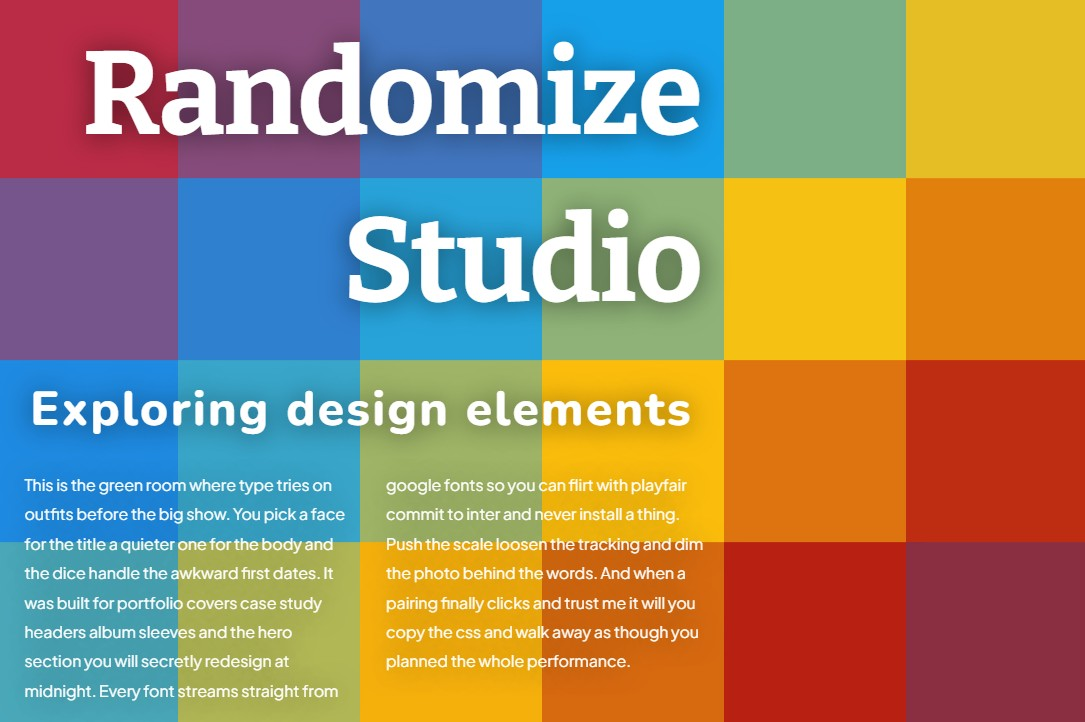
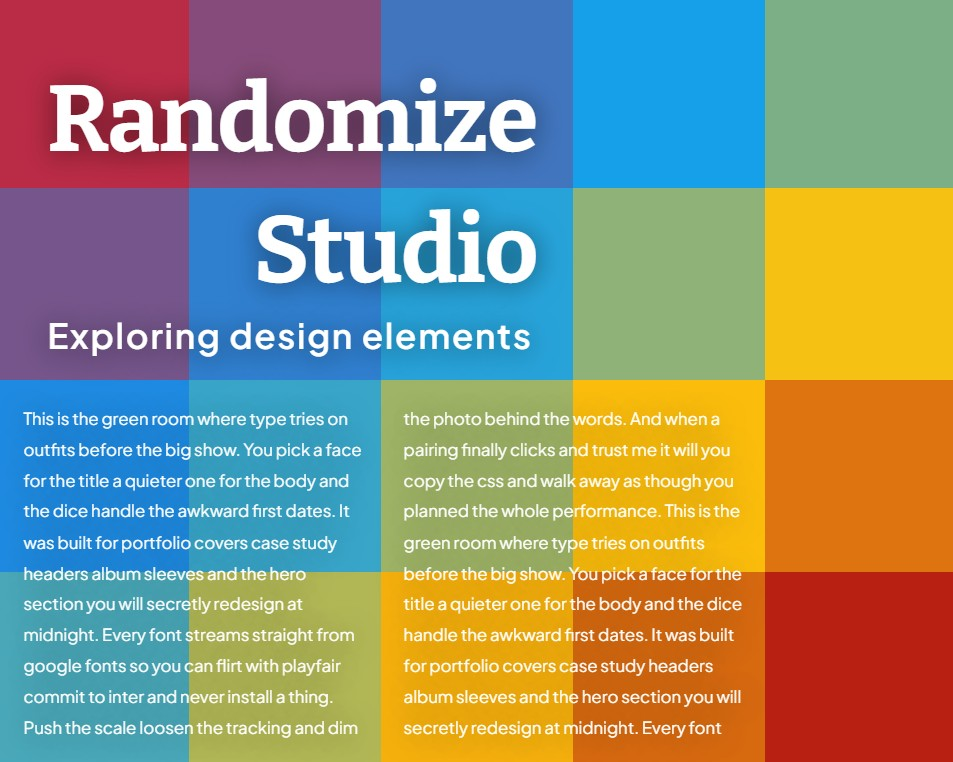
update image thumb for randomize-studio

diff --git a/app/components/band-experiments/band-experiments.scss b/app/components/band-experiments/band-experiments.scss
@@ -200,41 +200,52 @@
   // for -1 to mean anything.
   .tools-entry {
     .frame-grid {
-      // A row of the narrow stack. Times the number of them, plus the gaps
-      // between, this is the height of the whole grid — and so the height of the
-      // feature spanning it.
-      --tool-row: clamp(4.5rem, 7vw, 7rem);
-      // Narrow stack first, wide one second: the feature sits against the
-      // divider, which is the edge everything in this column is aligned to and
-      // the side the frames arrive from.
-      //
-      // The feature's column is its own SPANNED HEIGHT written out, which is
-      // what makes it square — it was 2fr, and square only by accident of how
-      // the numbers happened to fall (245 against 248). The narrow stack takes
-      // whatever is left. --tool-rows is written beside the row template by the
-      // component, because the count is the one thing only it knows; the
-      // fallback is what the four tools currently come to.
-      grid-template-columns: 1fr calc(
-        var(--tool-row) * var(--tool-rows, 3) + (var(--tool-rows, 3) - 1) * var(--frame-gap)
-      );
+      // The feature takes the proportion of its picture - randomize-studio-2.jpg
+      // is 953 x 762 - rather than being cut square. Change the picture, change
+      // these two numbers.
+      --feature-ratio: calc(953 / 762);
+      // A stack frame's width over its row height: 150 across a 106px row, the
+      // shape the three had when the feature was square. Kept, so they are the
+      // same frames, only smaller.
+      --stack-ratio: calc(150 / 106);
 
-      // The feature is asked for at exactly 350px. Its width IS its spanned
-      // height, so the row is worked back from the 350 rather than the other way
-      // round: three rows and two gaps come to exactly that, and the frame stays
-      // square at 350 x 350.
-      //
-      // Held to wide and up, because 350 does not fit below it. The media column
-      // is min(742px, 50vw) less 128px of padding, so at 1024 there are 384px to
-      // share: 350 of them would leave the stack beside it 18px wide. At 1440
-      // there are 592, and the stack keeps 226. Between the two the row goes on
-      // sizing itself off 7vw as before.
-      // Off --tool-rows like everything else here, not off a hard 3: add a fifth
-      // tool and the stack grows a row, and the feature is still 350.
+      // What a row WAS, when the feature was square - the stack's row, whose
+      // count plus the gaps between is the height of the whole grid. Below wide
+      // it sized itself off 7vw; wide and up it was worked back from a 350px
+      // feature (350 does not fit below wide: at 1024 the media column has 384px
+      // to share). Off --tool-rows rather than a hard 3, so a fifth tool grows
+      // the stack by a row and nothing here changes.
+      --tool-base: clamp(4.5rem, 7vw, 7rem);
       @include respond-to("wide") {
-        --tool-row: calc(
+        --tool-base: calc(
           (350px - (var(--tool-rows, 3) - 1) * var(--frame-gap)) / var(--tool-rows, 3)
         );
       }
+
+      // The row now, worked back from the block keeping the width it had: a
+      // wider feature is paid for with height, shared by the feature and the
+      // stack beside it so their tops and bottoms still line up. With N rows, a
+      // gap g, the feature ratio k and the stack ratio a, the old block was
+      // (N + a) x base + N x g wide, and the new one is k x (N x row + (N - 1) x g)
+      // + g + a x row. Setting them equal gives this. At wide that is an 89px row:
+      // a 374 x 299 feature and a 126px stack, 516px across as before.
+      --tool-row: calc(
+        ((var(--tool-rows, 3) + var(--stack-ratio)) * var(--tool-base)
+          + (var(--tool-rows, 3) - 1) * (1 - var(--feature-ratio)) * var(--frame-gap))
+        / (var(--feature-ratio) * var(--tool-rows, 3) + var(--stack-ratio))
+      );
+
+      // Narrow stack first, wide one second: the feature sits against the
+      // divider, which is the edge everything in this column is aligned to and
+      // the side the frames arrive from. The feature's column is its own SPANNED
+      // HEIGHT times its picture's proportion; the stack takes what is left.
+      // --tool-rows is written beside the row template by the component, because
+      // the count is the one thing only it knows; the fallback is what the four
+      // tools currently come to.
+      grid-template-columns: 1fr calc(
+        (var(--tool-row) * var(--tool-rows, 3) + (var(--tool-rows, 3) - 1) * var(--frame-gap))
+          * var(--feature-ratio)
+      );
     }
 
     // Document order still leads with the feature — it is what the component
@@ -253,14 +264,13 @@
       justify-self: end;
       // One width for all three, so the stack is a column of equal frames again
       // rather than a ragged one — no per-cell rules, and adding a fifth tool
-      // needs nothing here.
+      // needs nothing here. Off the row, so they keep their shape as the row
+      // shrinks to make room for the feature.
       //
       // min(_, 100%) is what keeps it honest at every width: 100% is the track,
-      // which is 1fr of whatever the feature leaves. Where the column is wide the
-      // stated 150 wins; where it is not, a frame clips to the track instead of
-      // overrunning it. At 1024 the track is 120px and all three come out 120 —
-      // the same as when they filled it.
-      width: min(150px, 100%);
+      // which is 1fr of whatever the feature leaves, and a frame clips to it
+      // instead of overrunning it.
+      width: min(calc(var(--tool-row) * var(--stack-ratio)), 100%);
     }
   }
 
